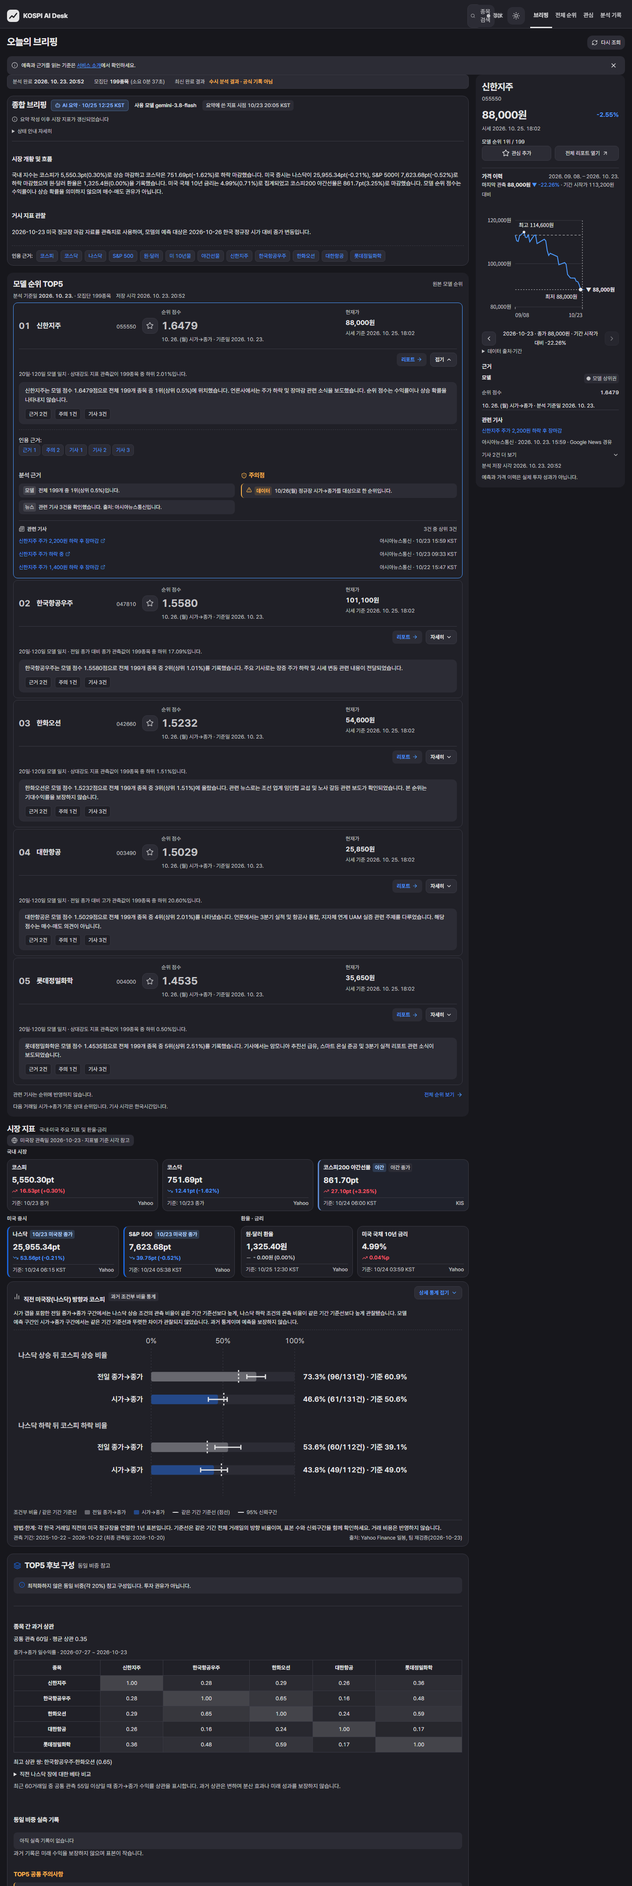
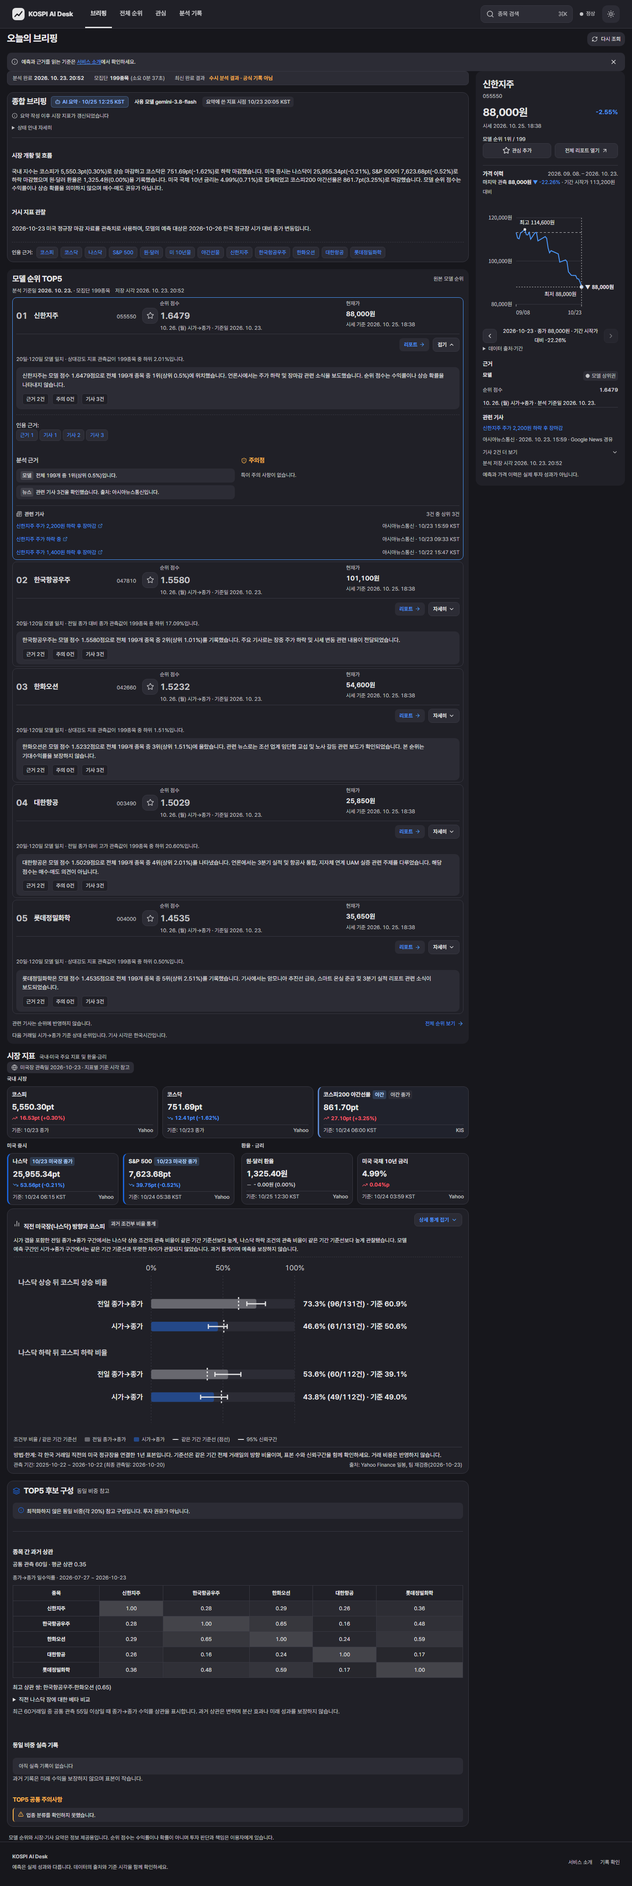
대상일 안내를 브리핑 주의 목록에서 빼고 포스터 캡처를 맞춤
- 예측 대상 세션 안내('…정규장 시가→종가를 대상으로 한 순위입니다')가 주의점에 경고처럼 보이던 문제를, 응답 표시 단계에서 해당 주의와 그 인용만 제외해 해결한다(대상일은 TOP5 행에 표시, inputHash·저장 캐시 불변).
- 안내 문구 생성과 판별을 공유 함수로 통일하고, 인용 보존·GET 캐시·POST 생성 경로 테스트와 API 계약 설명을 보강한다.
- 홈 전체·브리핑·TOP5 캡처를 다시 찍고 촬영 기록과 보고서 문서를 갱신한다.

diff --git a/FE/src/test/briefing.test.js b/FE/src/test/briefing.test.js
@@ -1,7 +1,10 @@
 import { afterEach, describe, expect, it, vi } from "vitest";
 import { buildBriefingInput, createBriefingService, formatSupplyWon } from "../../server/briefing";
 import { MACRO_UNIVERSE } from "../../server/marketMacro";
-import { briefingInputHash, templateNarrative } from "../../server/briefingNarrative";
+import { briefingInputHash, templateNarrative, createNarrativeStore, isTargetSessionCaution, targetSessionCautionText } from "../../server/briefingNarrative";
+import { mkdtemp, readFile, rm } from "node:fs/promises";
+import { tmpdir } from "node:os";
+import { join, resolve, sep } from "node:path";
 import { buildBriefingComposition } from "../../server/briefingComposition";
 afterEach(() => vi.useRealTimers());
 
@@ -20,13 +23,71 @@ function rows() {
   }));
 }
 describe("model TOP5 briefing", () => {
-  it("renders a neutral target-session caution after resolving the unchanged input hash", async () => {
-    let rawHash;
+  it("shares the exact historical date-caution bytes between generation and classification", () => {
+    const oldText = "모델 기준일은 2026-10-22이며 오늘 날짜와 다릅니다.";
+    expect(Buffer.from(targetSessionCautionText("2026-10-22"), "utf8")).toEqual(Buffer.from(oldText, "utf8"));
+    const input = buildBriefingInput(rows(), marker, macro, now), previous = structuredClone(input);
+    for (const stock of previous.stocks) stock.cautions.find(fact => fact.kind === "data").text = oldText;
+    expect(briefingInputHash(input)).toBe(briefingInputHash(previous));
+    expect(isTargetSessionCaution({ kind: "data", text: oldText }, "2026-10-22")).toBe(true);
+    expect(isTargetSessionCaution({ kind: "data", text: oldText }, "2026-10-23")).toBe(false);
+  });
+  it("omits only the target-session caution and its citations after resolving the unchanged input hash", async () => {
+    let rawHash, originalInput, cachedNarrative;
     const service = createBriefingService({ rank: async () => rows(), marker: async () => marker, macro: async () => macro,
       composition: async input => buildBriefingComposition(input), now: () => now,
-      narratives: { resolve: async input => { rawHash = briefingInputHash(input); expect(input.stocks[0].cautions.find(fact => fact.kind === "data").text).toContain("오늘 날짜"); return templateNarrative(input, null, now); } } });
+      narratives: { resolve: async input => {
+        rawHash = briefingInputHash(input); originalInput = input;
+        expect(input.stocks[0].cautions.find(fact => fact.kind === "data").text).toContain("오늘 날짜");
+        cachedNarrative = templateNarrative(input, null, now);
+        cachedNarrative.citations.push(...input.stocks.flatMap(stock => stock.cautions.filter(fact => isTargetSessionCaution(fact, input.model.baseDate)).map(fact => fact.id)));
+        return cachedNarrative;
+      } } });
     const result = await service(false, {});
-    expect(result.narrative.inputHash).toBe(rawHash); expect(result.stocks[0].cautions.find(fact => fact.kind === "data").text).toBe("10/23(금) 정규장 시가→종가를 대상으로 한 순위입니다.");
+    expect(result.narrative.inputHash).toBe(rawHash); expect(briefingInputHash(originalInput)).toBe(rawHash);
+    const hiddenDate = fact => isTargetSessionCaution(fact, originalInput.model.baseDate);
+    const hidden = new Set(originalInput.stocks.flatMap(stock => stock.cautions.filter(hiddenDate).map(fact => fact.id)));
+    for (const [index, stock] of result.stocks.entries()) {
+      expect(stock.cautions).toEqual(originalInput.stocks[index].cautions.filter(fact => !hiddenDate(fact)));
+      expect(result.narrative.stocks[index].citations).toEqual([`E:${stock.code}:1`, `C:${stock.code}:1`, `C:${stock.code}:2`]);
+    }
+    expect(result.narrative.citations).toEqual(MACRO_UNIVERSE.map(row => `M:${row.id}`));
+    expect(result.stocks[0].cautions.map(fact => fact.kind)).toEqual(["model", "news"]);
+    expect(result.narrative.stocks[0].summary).toContain("10/23(금) 정규장 시가→종가");
+    const ids = new Set([...result.macro.indicators.map(row => `M:${row.id}`), ...result.stocks.flatMap(stock => [`R:${stock.code}`, ...stock.evidence.map(fact => fact.id), ...stock.cautions.map(fact => fact.id), ...stock.news.articles.map(article => article.id)])]);
+    for (const id of [...result.narrative.citations, ...result.narrative.stocks.flatMap(stock => stock.citations)]) { expect(hidden.has(id)).toBe(false); expect(ids.has(id)).toBe(true); }
+    expect(cachedNarrative.citations.some(id => hidden.has(id))).toBe(true);
+    expect(cachedNarrative.stocks[0].citations.some(id => hidden.has(id))).toBe(true);
+    expect(hiddenDate({ kind: "data", text: "일부 가격 자료를 확인하지 못했습니다." })).toBe(false);
+    expect(hiddenDate({ kind: "news", text: "모델 기준일은 2026-10-22이며 오늘 날짜와 다릅니다." })).toBe(false);
+  });
+  it.each([false, true])("preserves seven LLM fields and exact visible citations (new POST generation: %s)", async generate => {
+    const directory = await mkdtemp(join(tmpdir(), "briefing-date-caution-"));
+    if (!resolve(directory).startsWith(resolve(tmpdir()) + sep)) throw new Error("Unexpected test cache path");
+    try {
+      const selectedEnv = { PIPELINE_OUTPUT_DIR: directory, GEMINI_API_KEY: "fixture-public-not-an-actual-key" };
+      const input = buildBriefingInput(rows(), marker, macro, now, selectedEnv), template = templateNarrative(input, null, now);
+      const dateIds = input.stocks.flatMap(stock => stock.cautions.filter(fact => isTargetSessionCaution(fact, input.model.baseDate)).map(fact => fact.id));
+      const value = { overview: template.overview, marketNote: template.marketNote, stocks: template.stocks.map(({ source, ...stock }) => stock), citations: [...template.citations, ...dateIds] };
+      const transport = vi.fn(async () => ({ ok: true, json: async () => ({ candidates: [{ finishReason: "STOP", content: { parts: [{ text: JSON.stringify(value) }] } }] }) }));
+      const store = createNarrativeStore({ transport, now: () => now });
+      if (!generate) await store.resolve(input, true, selectedEnv);
+      const path = join(directory, "briefing-narrative.json"), before = generate ? null : await readFile(path, "utf8");
+      const service = createBriefingService({ rank: async () => rows(), marker: async () => marker, macro: async () => macro,
+        composition: async input => buildBriefingComposition(input), now: () => now, narratives: createNarrativeStore({ transport, now: () => now }) });
+      const result = await service(generate, selectedEnv);
+      expect(result.narrative).toMatchObject({ status: "llm", fallbackReason: null, inputHash: briefingInputHash(input), generatedAt: template.generatedAt, fieldSources: { overview: "llm", marketNote: "llm" } });
+      expect(result.narrative.stocks).toHaveLength(5); expect(result.narrative.stocks.every(stock => stock.source === "llm")).toBe(true);
+      expect(result.stocks.every(stock => stock.cautions.every(fact => !isTargetSessionCaution(fact, input.model.baseDate)))).toBe(true);
+      expect(result.narrative.citations).toEqual(template.citations);
+      for (const stock of result.narrative.stocks) expect(stock.citations).toEqual([`E:${stock.code}:1`, `C:${stock.code}:1`, `C:${stock.code}:2`]);
+      expect([...result.narrative.citations, ...result.narrative.stocks.flatMap(stock => stock.citations)].some(id => dateIds.includes(id))).toBe(false);
+      const saved = await readFile(path, "utf8");
+      if (before !== null) expect(saved).toBe(before);
+      expect(JSON.parse(saved).narrative.citations).toEqual(value.citations);
+      expect(JSON.parse(saved).input.stocks[0].cautions.find(fact => fact.kind === "data").text).toBe("모델 기준일은 2026-10-22이며 오늘 날짜와 다릅니다.");
+      expect(transport).toHaveBeenCalledOnce();
+    } finally { await rm(directory, { recursive: true, force: true }); }
   });
   it.each(["official", "adhoc", undefined, "invalid"])("classifies a stable completed result from run metadata (%s)", async kind => {
     const service = createBriefingService({ rank: async () => rows(), marker: async () => ({ ...marker, runId: "fixture-run", kind }),

diff --git a/FE/server/briefing.ts b/FE/server/briefing.ts
@@ -9,7 +9,7 @@ import { formatSupplyWon } from "./briefingValidation";
 import { showBriefingSupply } from "./supplyVisibility";
 import { modelEvidence, type ModelEvidence } from "../src/types/modelEvidence";
 export { formatSupplyWon } from "./briefingValidation";
-import { createNarrativeStore, briefingInputHash, templateNarrative, displayCaution, type BriefingNarrative } from "./briefingNarrative";
+import { createNarrativeStore, briefingInputHash, templateNarrative, isTargetSessionCaution, targetSessionCautionText, type BriefingNarrative } from "./briefingNarrative";
 import { getBriefingComposition, buildBriefingComposition, type BriefingComposition } from "./briefingComposition";
 
 declare const process: { env: Record<string, string | undefined> };
@@ -68,7 +68,7 @@ function stockFacts(row: PipelineOutputRow, macro: MarketMacro, today: string, s
       source: typeof article.source === "string" ? article.source : "", pubDate: typeof article.pub_date === "string" && Number.isFinite(Date.parse(article.pub_date)) ? new Date(article.pub_date).toISOString() : null })) : [];
   if (articles.length) addEvidence("news", `관련 기사 ${articles.length}건을 확인했습니다. 출처: ${[...new Set(articles.map(article => article.source || "출처 미상"))].join(", ")}입니다.`);
   else caution("news", status === "collection_failed" ? "관련 기사 수집에 실패했습니다." : status === "not_collected" ? "관련 기사를 수집하지 않았습니다." : "확인된 관련 기사가 없습니다.");
-  if (input.prediction_base_date !== today) caution("data", `모델 기준일은 ${String(input.prediction_base_date)}이며 오늘 날짜와 다릅니다.`);
+  if (input.prediction_base_date !== today) caution("data", targetSessionCautionText(String(input.prediction_base_date)));
   // Keep stock-specific citation IDs stable when macro collection recovers.
   if (macro.indicators.some(indicator => indicator.status !== "ok")) caution("macro", "일부 시장 지표를 확보하지 못했습니다.");
   return { rank, code, name: row.result.company_name, rankScore: numeric(input.rank_score)!, poolSize, topPercent, modelEvidence: modelEvidence(input), evidence, cautions, news: { status, articles } };
@@ -144,8 +144,13 @@ export function createBriefingService({ rank = getRankPayload, marker = readPipe
     ]);
     const kind = input.model && (after?.kind === "official" || after?.kind === "adhoc") ? after.kind : "unknown";
     // Change presentation after identity/cache resolution; hashed input facts stay untouched.
-    const stocks = input.stocks.map(stock => ({ ...stock, cautions: stock.cautions.map(fact => ({ ...fact, text: displayCaution(fact, input.model?.baseDate) })) }));
-    return { version: 1, status: input.model ? "ready" : "no_run", kind, ...input, stocks, narrative, composition: candidateComposition,
+    const hiddenDateCaution = (fact: BriefingFact) => isTargetSessionCaution(fact, input.model?.baseDate ?? "");
+    const hiddenCitations = new Set(input.stocks.flatMap(stock => stock.cautions.filter(hiddenDateCaution).map(fact => fact.id)));
+    const visibleCitations = (ids: string[]) => ids.filter(id => !hiddenCitations.has(id));
+    const stocks = input.stocks.map(stock => ({ ...stock, cautions: stock.cautions.filter(fact => !hiddenDateCaution(fact)) }));
+    const visibleNarrative = { ...narrative, citations: visibleCitations(narrative.citations),
+      stocks: narrative.stocks.map(stock => ({ ...stock, citations: visibleCitations(stock.citations) })) };
+    return { version: 1, status: input.model ? "ready" : "no_run", kind, ...input, stocks, narrative: visibleNarrative, composition: candidateComposition,
       disclaimer: "모델 순위와 시장·기사 요약은 정보 제공용입니다. 순위 점수는 수익률이나 확률이 아니며 투자 판단과 책임은 이용자에게 있습니다.",
       data_meta: { source: "cache", asOf: input.model?.runStartedAt ?? market.asOf } };
   };

diff --git a/FE/server/briefingNarrative.ts b/FE/server/briefingNarrative.ts
@@ -14,8 +14,14 @@ export function targetSessionSentence(baseDate: string): string {
   const date = new Date(`${target}T00:00:00Z`), weekday = "일월화수목금토"[date.getUTCDay()];
   return `${date.getUTCMonth() + 1}/${date.getUTCDate()}(${weekday}) 정규장 시가→종가를 대상으로 한 순위입니다.`;
 }
+export function targetSessionCautionText(baseDate: string): string {
+  return `모델 기준일은 ${baseDate}이며 오늘 날짜와 다릅니다.`;
+}
+export function isTargetSessionCaution(fact: { kind: string; text: string }, baseDate: string): boolean {
+  return fact.kind === "data" && fact.text === targetSessionCautionText(baseDate);
+}
 export function displayCaution(fact: { kind: string; text: string }, baseDate?: string): string {
-  return fact.kind === "data" && baseDate && /^모델 기준일은 .+이며 오늘 날짜와 다릅니다\.$/.test(fact.text) ? targetSessionSentence(baseDate) : fact.text;
+  return baseDate && isTargetSessionCaution(fact, baseDate) ? targetSessionSentence(baseDate) : fact.text;
 }
 
 declare const process: { env: Record<string, string | undefined> };

diff --git a/materials/reports/top5-briefing-20261023/README.md b/materials/reports/top5-briefing-20261023/README.md
@@ -1,6 +1,6 @@
-# TOP5 종합 브리핑 검증 기록 · 2026-10-23
+# TOP5 종합 브리핑 검증 기록 · 2026-10-23
 
-저장된 검증 산출물과 현재 API 계약을 대조한 기록이다. **현재 실행은 기준일 2026-10-23·대상 10/26(월)이며 TOP1은 신한지주**다. [새 실행 검증 요약](verification-20261025.json)에 원본 순위·관측 열·저장 설명 재검증 결과를 기록했다. 10/25 18:13 KST에 새 정보 구조의 비관리자 화면을 촬영했으며 [촬영 측정](screenshots/fe-check/poster-capture-metrics.json)에 7개 AI 필드·시세/차트 HTTP 200·오류 부재를 기록했다. 기존 10/22 기준 실행과 10/23 실호출은 아래에 이전 기록으로 남겼다. 아래 성공·실패는 **각 파일을 생성한 실행의 관측**이며, 전체 데이터의 실전 출처·투자 성과·운영 안정성을 보증하지 않는다. 포스터 문안은 [poster/poster-content.md](poster/poster-content.md), 시연은 [poster/usage-flow.md](poster/usage-flow.md), 구성도는 [poster/diagram-system.md](poster/diagram-system.md)에 있다.
+저장된 검증 산출물과 현재 API 계약을 대조한 기록이다. **현재 실행은 기준일 2026-10-23·대상 10/26(월)이며 TOP1은 신한지주**다. [새 실행 검증 요약](verification-20261025.json)에 원본 순위·관측 열·저장 설명 재검증 결과를 기록했다. 10/25 18:13 KST에 새 정보 구조의 비관리자 화면을 촬영하고 18:38 KST에 날짜 주의 제거를 반영해 홈 전체 2장·브리핑·TOP5 컷을 갱신했으며 [촬영 측정](screenshots/fe-check/poster-capture-metrics.json)에 7개 AI 필드·시세/차트 HTTP 200·오류 부재를 기록했다. 기존 10/22 기준 실행과 10/23 실호출은 아래에 이전 기록으로 남겼다. 아래 성공·실패는 **각 파일을 생성한 실행의 관측**이며, 전체 데이터의 실전 출처·투자 성과·운영 안정성을 보증하지 않는다. 포스터 문안은 [poster/poster-content.md](poster/poster-content.md), 시연은 [poster/usage-flow.md](poster/usage-flow.md), 구성도는 [poster/diagram-system.md](poster/diagram-system.md)에 있다.
 
 ## 무엇을 만들었나
 
@@ -79,11 +79,11 @@
 
 입력에 있는 금액·날짜·순매수/순매도 설명까지 거부할 수 있던 검증을 보완했다. 현재 구현은 수급 사실과 거래 권유를 구분하고, 한국어 금액 단위·방향·허용 날짜를 확인한다. 초기 실패 파일만으로 개별 차단 문장의 정확한 원인을 모두 확정할 수는 없다. 근거: 위 실패 JSON, [검증기](../../../FE/server/briefingValidation.ts), [필드 복구 코드](../../../FE/server/briefingNarrative.ts), [API 계약](../../../FE/docs/api-contract.md).
 
-## 현재 포스터 캡처 · 10/25 18:13 KST
+## 현재 포스터 캡처 · 10/25 18:13 촬영, 18:38 일부 갱신
 
 GET으로 ready·기준일 2026-10-23과 같은 입력 해시를 확인했다. 10/25 12:25 KST에 생성된 저장 설명의 7개 필드가 현재 규칙을 통과해 모두 llm이며 fallbackReason=null이다. 이번 촬영에서 분석·Gemini POST는 하지 않았다. 이전 10/23의 생성 호출·부분 대체는 [narrative-final.json](narrative-final.json)에 별도 기록돼 있다.
 
-warmup의 16개 GET이 모두 HTTP 200이었다. TOP5 현재가와 신한지주 차트의 실제 브라우저 응답·렌더 완료, 최근 1년 나스닥 243일 관측과 60일 공통 상관행렬을 확인했다. 다크·비관리자 상태의 실제 뷰포트를 촬영했으며 DOM·레이아웃을 재배열하지 않았다. 종합 브리핑과 시장 지표 사이에 TOP5가 있으므로 승인된 별도 컷으로 나눴다. TOP5 컷은 TOP1 펼침과 표 상단이며 5개 행 전체는 전체 페이지 컷에서 확인한다. 캡처 9장을 직접 열어 핵심 제목·표·차트 라벨이 가려지지 않고 로딩·관리자 UI가 없음을 확인했다. 콘솔 오류·예외·HTTP 오류·비GET API 요청은 0건이다. 모바일 상관표는 내부 가로 스크롤이므로 한 PNG에 5개 열 전체를 담지는 않는다. 코드·빌드·접근성 테스트는 이번 캡처 작업에서 실행하지 않았다.
+최초 18:13 촬영 전 warmup의 16개 GET이 모두 HTTP 200이었다. 18:38 갱신에서도 실제 브라우저 시세·차트 응답과 로딩 종료를 확인했다. 날짜 주의와 해당 인용은 응답에서 제외됐으며 TOP5의 표시 주의는 0건이다. 다른 주의와 인용은 그대로 보존하고 대상일은 각 행·패널에 유지했다. TOP5 현재가와 신한지주 차트의 실제 브라우저 응답·렌더 완료, 최근 1년 나스닥 243일 관측과 60일 공통 상관행렬을 확인했다. 다크·비관리자 상태의 실제 뷰포트를 촬영했으며 DOM·레이아웃을 재배열하지 않았다. 종합 브리핑과 시장 지표 사이에 TOP5가 있으므로 승인된 별도 컷으로 나눴다. TOP5 컷은 TOP1 펼침과 표 상단이며 5개 행 전체는 전체 페이지 컷에서 확인한다. 캡처 9장을 직접 열어 핵심 제목·표·차트 라벨이 가려지지 않고 로딩·관리자 UI가 없음을 확인했다. 콘솔 오류·예외·HTTP 오류·비GET API 요청은 0건이다. 모바일 상관표는 내부 가로 스크롤이므로 한 PNG에 5개 열 전체를 담지는 않는다. 날짜 주의 판별 공유·인용 보존 회귀를 포함해 FE 전체 938건·typecheck·최종 빌드 1회가 통과했다. 접근성 검사는 이번 갱신에서 재실행하지 않았다.
 
 | 캡처 | 크기 | 내용 |
 |---|---|---|
@@ -95,7 +95,7 @@ warmup의 16개 GET이 모두 HTTP 200이었다. TOP5 현재가와 신한지주 
 | [reference-1440-dark.png](screenshots/fe-check/reference-1440-dark.png) | 1440×1000 | 나스닥 참고 통계 펼침·기준선·신뢰구간·방법 |
 | [poster-composition-1440-dark.png](screenshots/fe-check/poster-composition-1440-dark.png) | 1440×1000 | TOP5 동일 비중 참고·공통 60일 상관행렬·한계 |
 | [home-1440-dark-full.png](screenshots/fe-check/home-1440-dark-full.png) | 1440×4295 | 홈 전체·TOP1 근거/참고 통계 펼침 |
-| [home-375-dark-full.png](screenshots/fe-check/home-375-dark-full.png) | 375×7720 | 모바일 홈 전체·참고 통계 행 카드·상세 패널 |
+| [home-375-dark-full.png](screenshots/fe-check/home-375-dark-full.png) | 375×7700 | 모바일 홈 전체·참고 통계 행 카드·상세 패널 |
 
 ## KIS 요청·한도 측정
 
@@ -143,7 +143,7 @@ KIS 지수 이력 최초 수집은 지수별 1,813행, 각 범위 `2019-06-03~20
 
 ## 재현 명령과 수행 범위
 
-아래는 재현에 사용할 명령이다. 이번 10/25 촬영은 기존 완료 분석·저장 AI 설명을 유지하고 GET만 실행했다. POST는 새 분석·새 설명이 필요할 때 인증된 관리자가 별도로 실행하는 예이며 이번에 수행한 명령이 아니다. 전체 테스트·빌드·접근성 검사는 이번에 재실행하지 않았다. 로컬 개발 서버와 이미 안전하게 구성된 서버 환경이 필요하다. 비밀 파일 내용을 출력하는 명령은 포함하지 않는다. 실행 안내 근거: [루트 README](../../../README.md), [FE 안내](../../../FE/README.md), [통계 실행 안내](../macro-nasdaq-kospi/README.md).
+아래는 재현에 사용할 명령이다. 이번 10/25 촬영은 기존 완료 분석·저장 AI 설명을 유지하고 GET만 실행했다. POST는 새 분석·새 설명이 필요할 때 인증된 관리자가 별도로 실행하는 예이며 이번에 수행한 명령이 아니다. 날짜 주의 제거와 인용 보존을 확인한 FE 전체 938건·typecheck·빌드 1회는 통과했고, 접근성 검사는 재실행하지 않았다. 로컬 개발 서버와 이미 안전하게 구성된 서버 환경이 필요하다. 비밀 파일 내용을 출력하는 명령은 포함하지 않는다. 실행 안내 근거: [루트 README](../../../README.md), [FE 안내](../../../FE/README.md), [통계 실행 안내](../macro-nasdaq-kospi/README.md).
 
 ```powershell
 # 저장소 루트: 오프라인 통계를 별도 출력으로 재계산

diff --git a/materials/reports/top5-briefing-20261023/poster/poster-content.md b/materials/reports/top5-briefing-20261023/poster/poster-content.md
@@ -1,6 +1,6 @@
 # 포스터 문안 초안
 
-이 문서는 제출용 편집 초안이다. 본문은 전개별로 짧게 사용하고 근거·주의는 그림 캡션과 하단 각주로 남긴다. 현재 실행은 기준일 2026-10-23, 대상 10/26(월) 정규장이다. TOP5는 신한지주·한국항공우주·한화오션·대한항공·롯데정밀화학이다([현재 검증](../verification-20261025.json)). PNG는 10/25 18:13 KST의 새 정보 구조·비관리자 다크 화면이다([촬영 기록](../screenshots/fe-check/poster-capture-metrics.json)). 수치는 각 자료의 기준 시각을 따르며 실시간 시세로 소개하지 않는다.
+이 문서는 제출용 편집 초안이다. 본문은 전개별로 짧게 사용하고 근거·주의는 그림 캡션과 하단 각주로 남긴다. 현재 실행은 기준일 2026-10-23, 대상 10/26(월) 정규장이다. TOP5는 신한지주·한국항공우주·한화오션·대한항공·롯데정밀화학이다([현재 검증](../verification-20261025.json)). PNG는 10/25 18:13 KST의 새 정보 구조·비관리자 다크 화면이며, 날짜 주의 제거 후 홈 전체 2장·브리핑·TOP5 컷은 18:38 KST에 갱신했다([촬영 기록](../screenshots/fe-check/poster-capture-metrics.json)). 수치는 각 자료의 기준 시각을 따르며 실시간 시세로 소개하지 않는다.
 
 ## 전체 제목
 
@@ -76,7 +76,7 @@ TOP5 구성에서는 공통 표본의 최근 60거래일 상관행렬과 공통 
 | 가격 값 읽기 | [가격 차트·툴팁](../screenshots/fe-check/poster-chart-1440-dark.png) | ‘가격·날짜 축, 기간 기준선, 최고/최저와 특정 관측 가격을 확인한다.’ 신한지주 1개월 가격선 |
 | 정의별 과거 통계 | [나스닥 참고 통계](../screenshots/fe-check/reference-1440-dark.png) | ‘조건부 비율을 같은 기간 기준선·표본·신뢰구간과 비교한다.’ 모델 예측 구간과 종가 기준을 분리 |
 | 구성 공통 움직임 | [TOP5 구성·상관행렬](../screenshots/fe-check/poster-composition-1440-dark.png) | ‘최근 공통 60일의 종목 간 상관을 동일 비중 참고 구성과 함께 읽는다.’ 평균 0.35, 최고 한국항공우주·한화오션 0.65 |
-| 전체 작업 흐름 | [데스크톱 전체](../screenshots/fe-check/home-1440-dark-full.png), [모바일 전체](../screenshots/fe-check/home-375-dark-full.png) | 1440×4295 / 375×7720. 발표에는 읽을 수 있는 확대 컷을 사용하며 모바일 상관표는 내부 가로 스크롤 |
+| 전체 작업 흐름 | [데스크톱 전체](../screenshots/fe-check/home-1440-dark-full.png), [모바일 전체](../screenshots/fe-check/home-375-dark-full.png) | 1440×4295 / 375×7700. 발표에는 읽을 수 있는 확대 컷을 사용하며 모바일 상관표는 내부 가로 스크롤 |
 
 직접 열어 본 후보들이다. 기사·숫자·미수집 표시를 편집으로 바꾸지 않는다. 전일 코드 정리 캡처는 가상 입력이므로 실제 데이터 동작 컷에 섞지 않는다.[S8] 최종 시연 순서는 [usage-flow.md](usage-flow.md)를 따른다.
 
@@ -93,5 +93,5 @@ TOP5 구성에서는 공통 표본의 최근 60거래일 상관행렬과 공통 
 - [S5] [현재 실행 검증 요약](../verification-20261025.json). 기준일 `2026-10-23`, 대상 `2026-10-26`, 관측 열 추가 후 원본 점수 오차 0. [원본 순위 이전 검증](../kis-rank-verification.json)과 [이전 브리핑 스냅샷](../kis-briefing-ready.json)은 기준일 `2026-10-22` 기록으로 남긴다.
 - [S6] [현재 저장 원문 재검증·복원 출처](../verification-20261025.json). Gemini 추가 호출 없이 7개 필드 llm·fallbackReason null. [이전 Gemini 실호출 기록](../narrative-live-partial.json)의 9,199ms는 다른 실행의 동작 시간이며 현재 재검증 지연으로 쓰지 않는다.
 - [S7] [업종 오류 진단](../sector-diagnostic.json), [수급 설정 경계](../../../../README.md), [이번 검증 기록](../README.md). 비밀 설정 내용은 확인하지 않음.
-- [S8] [전일 코드 정리 보고서](../../final-code-cleanup-20261022/README.md), [현재 촬영 측정](../screenshots/fe-check/poster-capture-metrics.json), [이전 접근성 검사](../screenshots/fe-check/a11y-review.txt). 이번은 GET·캡처만 수행했으며 접근성·빌드를 재실행하지 않음.
+- [S8] [전일 코드 정리 보고서](../../final-code-cleanup-20261022/README.md), [현재 촬영 측정](../screenshots/fe-check/poster-capture-metrics.json), [이전 접근성 검사](../screenshots/fe-check/a11y-review.txt). 날짜 주의 제거 후 FE 전체 938건·typecheck·빌드 1회 통과, 4장 재촬영. 접근성 검사는 재실행하지 않음.
 - 별도 팀 출처: 뉴스 상관 `0.053`은 **팀 내부 분석(출처: 팀 공유 자료)**. 저장소 재현 근거와 구분.

diff --git a/FE/docs/api-contract.md b/FE/docs/api-contract.md
@@ -259,7 +259,7 @@ STEP2 CSV에는 다음 열이 선택적으로 추가됩니다. 기존 `rank_scor
 
 예열 작업의 예외·null 결과는 60초부터 지수 백오프로 재시도하고 최대 간격은 10분입니다. 성공 후에는 기존 장중 주기·장후 다음 개장 정책으로 돌아갑니다. warmup은 차트 예열 후 브리핑과 TOP1 근거를 한 번 더 GET해 나스닥 이력 준비를 시작하며 POST는 하지 않습니다.
 
-부분 대체 배지는 ‘AI 요약 · 일부 자동 생성 문장 포함’이며 사용 모델도 표시합니다. 입력 해시의 함수·사실·숫자는 변경하지 않습니다. 날짜 주의의 입력 원문은 해시에 그대로 남기고 응답/자동 생성 문장만 대상 세션 안내로 표시합니다. 순위 점수는 LLM 요청의 표시 숫자와 문자열만 최대 소수 4자리로 제공하며 검증도 공개 정밀도와 4자리 중 작은 한도를 적용합니다. 기존 수급 비공개 필터에는 `total_supply_`도 포함됩니다. 수급 미제공 시 띄어 쓴 순매수·역어순·숫자 없는 매수세/매도세 주장도 차단하고 명시적인 기사 주제 서술만 허용합니다.
+부분 대체 배지는 ‘AI 요약 · 일부 자동 생성 문장 포함’이며 사용 모델도 표시합니다. 입력 해시의 함수·사실·숫자는 변경하지 않습니다. 날짜 주의의 입력 원문은 해시에 그대로 남기되, 응답의 종목 주의 목록과 연결된 전역/종목 인용에서는 제외합니다. 다른 주의의 ID는 변경하지 않습니다. 대상 세션 안내 문장은 자동 생성 종목 요약에만 남고 응답 주의에는 없으며, TOP5 행·패널의 대상일 표시는 별도로 유지합니다. 날짜 주의만 인용하던 종목의 `narrative.stocks[].citations`는 빈 배열일 수 있습니다. 화면은 유효한 인용 칩만 표시하며 남은 주의가 없으면 ‘주의 0건’을 표시합니다. 순위 점수는 LLM 요청의 표시 숫자와 문자열만 최대 소수 4자리로 제공하며 검증도 공개 정밀도와 4자리 중 작은 한도를 적용합니다. 기존 수급 비공개 필터에는 `total_supply_`도 포함됩니다. 수급 미제공 시 띄어 쓴 순매수·역어순·숫자 없는 매수세/매도세 주장도 차단하고 명시적인 기사 주제 서술만 허용합니다.
 
 한국어 조사는 한글 받침으로 결정합니다. 숫자는 한국어 읽기의 마지막 음절(0·1·3·6·7·8은 받침), 영문은 마지막 알파벳의 한국어 명칭(L·M·N·R은 받침)을 사용하고 알 수 없는 끝 문자는 모음으로 처리합니다. 영문 회사명의 실제 발음을 추측하거나 사전을 만들지 않습니다. `3Q26`/`Q3` 같은 기사 주제 표기는 ‘3분기’로 정규화할 수 있지만 기사 금액·목표가는 숫자 근거로 허용하지 않습니다. 직접 부정 ‘나타내지 않습니다’와 ‘의미하지 않으며 … 권유가 아닙니다’는 허용하고 이중 부정·긍정 주장 우회는 계속 차단합니다.
 

diff --git a/materials/reports/top5-briefing-20261023/poster/usage-flow.md b/materials/reports/top5-briefing-20261023/poster/usage-flow.md
@@ -1,6 +1,6 @@
 # 시연 사용 흐름과 심사 Q&A
 
-기본 화면은 `/`, 상세는 `/stock/:code`다([FE 안내](../../../../FE/README.md)). 현재 기준일은 10/23, 예측 대상은 10/26(월), TOP5는 신한지주·한국항공우주·한화오션·대한항공·롯데정밀화학이다([새 실행 검증](../verification-20261025.json)). 10/25 18:13 KST에 새 정보 구조·비관리자·다크 화면을 촬영했다. 아래 7개 포스터 컷은 모두 실제 1440×1000 뷰포트이며, 홈 전체는 별도 데스크톱·모바일 컷이다([촬영 기록](../screenshots/fe-check/poster-capture-metrics.json)). 종합 브리핑과 시장 지표는 TOP5를 사이에 둔 현재 배치를 유지해 별도 컷으로 나눴다.
+기본 화면은 `/`, 상세는 `/stock/:code`다([FE 안내](../../../../FE/README.md)). 현재 기준일은 10/23, 예측 대상은 10/26(월), TOP5는 신한지주·한국항공우주·한화오션·대한항공·롯데정밀화학이다([새 실행 검증](../verification-20261025.json)). 10/25 18:13 KST에 새 정보 구조·비관리자·다크 화면을 촬영했고, 18:38 KST에 날짜 주의가 남아 있던 홈 전체 2장·브리핑·TOP5 컷을 갱신했다. 나머지 5컷의 촬영 시각은 그대로이며 metrics의 각 capturedAt으로 구분한다. 아래 7개 포스터 컷은 모두 실제 1440×1000 뷰포트이며, 홈 전체는 별도 데스크톱·모바일 컷이다([촬영 기록](../screenshots/fe-check/poster-capture-metrics.json)). 종합 브리핑과 시장 지표는 TOP5를 사이에 둔 현재 배치를 유지해 별도 컷으로 나눴다.
 
 ## 시연 5단계
 
